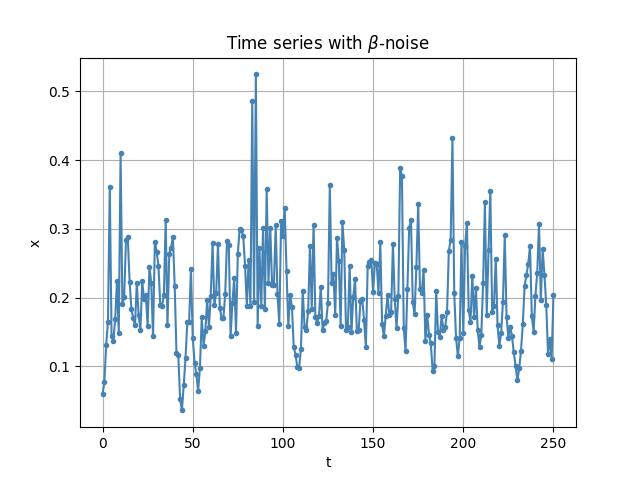
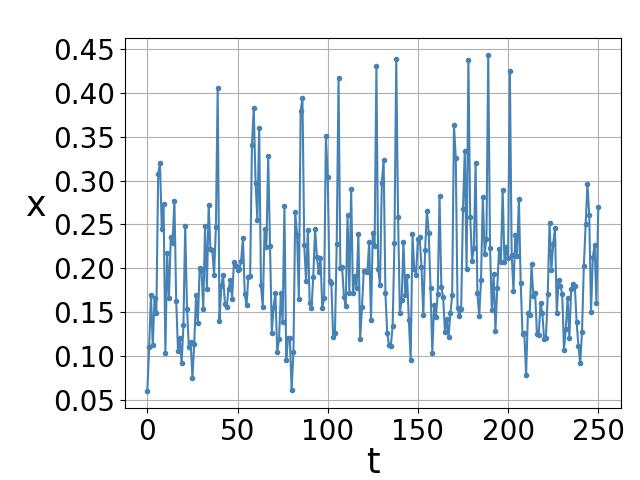
Fix

Changed region(s): [[0.0312, 0.0625, 1.0, 1.0], [0.8438, 0.2812, 0.9375, 0.3438], [0.0312, 0.5, 0.0625, 0.5312]]

diff --git a/latex/stochastic/texfiles/time_series.tex b/latex/stochastic/texfiles/time_series.tex
@@ -38,26 +38,41 @@
 
     Все варианты рассматриваются с одной и той же интенсивностью шума \(\varepsilon = 0.004\). 
         
-    Вид шума влияет на величину разброса значений численности популяции. Для того чтобы сравнить величину разброса можно обратить внимание на график дисперсии \ref{variance_cyclic}. И если в модели (\ref{origin}) численность популяции стабилизировалась и переставала хоть сколько-нибудь меняться, то в моделях (\ref{alpha_chaos}), (\ref{beta_chaos}) и (\ref{additive_chaos}) численность постоянно колеблется. Эти колебания происходят в рамках некоторого интервала значений. Численность популяции не растет и не уменьшается на какую-то значительную величину. Но такое поведение наблюдается не всегда.
+    Вид шума влияет на величину разброса значений численности популяции. Для того чтобы сравнить величину разброса можно обратить внимание на график дисперсии рисунок \ref{variance_cyclic}. И если в модели (\ref{origin}) численность популяции стабилизировалась и переставала хоть сколько-нибудь меняться, то в моделях (\ref{alpha_chaos}), (\ref{beta_chaos}) и (\ref{additive_chaos}) численность постоянно колеблется. Эти колебания происходят в рамках некоторого интервала значений. Численность популяции не растет и не уменьшается на какую-то значительную величину. Но такое поведение наблюдается не всегда.
 
-    Для демонстрации другого возможного поведения увеличим интенсивность шума до \(\varepsilon = 0.04\). На графике \ref{time_series_x_0_06_a_1_b_0_56_beta_chaos_epsilon_0_04_fall} видна ситуация, когда в одном эксперименте из-за шума траектория модели ушла в ноль. В другом эксперименте с точно такими же вводными параметрами получаем ситуацию, когда траектория не ушла в ноль, т.е. популяция выживала на протяжении анализируемого интервала времени. Данный пример изображен на картинке \ref{time_series_x_0_06_a_1_b_0_56_beta_chaos_epsilon_0_04_alive}. Аналогичные эффекты наблюдаются при других видах шума.
-
-    \begin{figure}
-        \centering
-        \includegraphics[width=\textwidth]{stochastic/images/time_series_x_0_06_a_1_b_0_56_beta_chaos_epsilon_0_04_fall.jpg}
-        
-        \captionsetup{justification=centering}
-        \caption{Временной ряд модели (\ref{beta_chaos}) при \(\beta = 0.56, \alpha = 1, x_0 = 0.06, \varepsilon = 0.04\)}
-        \label{time_series_x_0_06_a_1_b_0_56_beta_chaos_epsilon_0_04_fall}
-    \end{figure}
+    Для демонстрации другого возможного поведения интенсивность шума была увеличина до \(\varepsilon = 0.04\). На графике \ref{time_series_x_0_06_a_1_b_0_56_beta_chaos_epsilon_0_04_fall} видна ситуация, когда в одном эксперименте из-за шума траектория модели ушла в ноль. В другом эксперименте с точно такими же вводными параметрами траектория не ушла в ноль, т.е. популяция выживала на протяжении анализируемого интервала времени. Данный пример изображен на картинке \ref{time_series_x_0_06_a_1_b_0_56_beta_chaos_epsilon_0_04_alive}. Аналогичные эффекты наблюдаются при других видах шума.
 
     \begin{figure}
         \centering
-        \includegraphics[width=\textwidth]{stochastic/images/time_series_x_0_06_a_1_b_0_56_beta_chaos_epsilon_0_04_alive.jpg}
+        \subfloat[Вымирание]{
+            \includegraphics[width=0.5\textwidth]{stochastic/images/time_series_x_0_06_a_1_b_0_56_beta_chaos_epsilon_0_04_fall.jpg}
+            \label{time_series_x_0_06_a_1_b_0_56_beta_chaos_epsilon_0_04_fall}
+        }
+        \subfloat[Выживание]{
+            \includegraphics[width=0.5\textwidth]{stochastic/images/time_series_x_0_06_a_1_b_0_56_beta_chaos_epsilon_0_04_alive.jpg}
+            \label{time_series_x_0_06_a_1_b_0_56_beta_chaos_epsilon_0_04_alive}
+        }  
         
-        \captionsetup{justification=centering}
-        \caption{Временной ряд модели (\ref{beta_chaos}) при \(\beta = 0.56, \alpha = 1, x_0 = 0.06, \varepsilon = 0.04\)}
-        \label{time_series_x_0_06_a_1_b_0_56_beta_chaos_epsilon_0_04_alive}
+        \caption{Временные ряды модели (\ref{beta_chaos}) при \(\beta = 0.56, \alpha = 1, x_0 = 0.06, \varepsilon = 0.04\)}
     \end{figure}
 
-    При добавлении в модель случайных событий ее поведение становится непредсказуемым. Одно незначительное изменение может кардинально повлиять на ход развития событий.
+
+    % \begin{figure}
+    %     \centering
+    %     \includegraphics[width=\textwidth]{stochastic/images/time_series_x_0_06_a_1_b_0_56_beta_chaos_epsilon_0_04_fall.jpg}
+        
+    %     \captionsetup{justification=centering}
+    %     \caption{Временной ряд модели (\ref{beta_chaos}) при \(\beta = 0.56, \alpha = 1, x_0 = 0.06, \varepsilon = 0.04\)}
+    %     \label{time_series_x_0_06_a_1_b_0_56_beta_chaos_epsilon_0_04_fall}
+    % \end{figure}
+
+    % \begin{figure}
+    %     \centering
+    %     \includegraphics[width=\textwidth]{stochastic/images/time_series_x_0_06_a_1_b_0_56_beta_chaos_epsilon_0_04_alive.jpg}
+        
+    %     \captionsetup{justification=centering}
+    %     \caption{Временной ряд модели (\ref{beta_chaos}) при \(\beta = 0.56, \alpha = 1, x_0 = 0.06, \varepsilon = 0.04\)}
+    %     \label{time_series_x_0_06_a_1_b_0_56_beta_chaos_epsilon_0_04_alive}
+    % \end{figure}
+
+    При добавлении в модель случайных событий ее поведение становится непредсказуемым. Случайные траектории, под действием шума определенной интенсивности покидают бассейн притяжения детерминированного аттрактора и переходят на вырожденное равновесие \((0; 0)\). То есть наблюдается индуцированное шумом вымирание популяции. 

diff --git a/latex/stochastic/texfiles/bifurcation.tex b/latex/stochastic/texfiles/bifurcation.tex
@@ -1,6 +1,8 @@
-\subsection{Бифуркационные диаграммы}
+\subsection{Стохастические диаграммы}
 
-    Перейдем к рассмотрению графиков бифуркации моделей с разными видами шумов. На рисунках \ref{bifurcation_x_0_2_a_1_compare_alpha_noise}, \ref{bifurcation_x_0_2_a_1_compare_beta_noise} и \ref{bifurcation_x_0_2_a_1_compare_additional_noise} представлены графики бифуркационных диаграмм для моделей \ref{alpha_chaos}, \ref{beta_chaos} и \ref{additive_chaos}. Во всех моделях зафиксировано значение параметра \(\beta = 1\). Графики внешне напоминают детерминированный случай \ref{bifurcation_x_0_2_a_1_compare_no_noise}. На каждом графике, так же как и в исходной модели, существует участок равновесия, участки с циклами и участок с хаотическим поведением системы. От вида и интенсивности шума зависит то, насколько сильно отличается график с шумом от графика исходной модели \ref{origin}. 
+    Далее представлено случайное возмущение на бифуркационной диаграмме с разными видами шумов. На рисунках \ref{bifurcation_x_0_2_a_1_compare_alpha_noise}, \ref{bifurcation_x_0_2_a_1_compare_beta_noise} и \ref{bifurcation_x_0_2_a_1_compare_additional_noise} представлены графики бифуркационных диаграмм для моделей (\ref{alpha_chaos}), (\ref{beta_chaos}) и (\ref{additive_chaos}). Во всех моделях зафиксировано значение параметра \(\alpha = 1\). На каждом графике, так же как и в исходной модели, существует участок равновесия, участки с циклами и участок с хаотическим поведением системы. От вида и интенсивности шума зависит то, насколько \comment{А вот тут я не понял правку}.
+
+    Видно, что \(\alpha\)-шум 
 
     Можно заметить, что самое сильное влияние на значения оказывает \(\beta\)-шум. А, например, \(\alpha\)-шум оказывает незначительное влияние и диаграмма очень похожа на диаграмму детерминированного случая. Данные выводы также подтверждаются результатами, которые мы получили при построении временных рядов.
 

diff --git a/grpah/runner.py b/grpah/runner.py
@@ -209,6 +209,33 @@ def run_time_series_beta_noise():
         .show_last())
 
 
+def run_time_series_beta_noise_can_drop():
+    time_range = range(1, 250 + 1)
+    x_start = 0.06
+    skip = False
+
+    a = 1
+    b = 0.56
+    epsilon = 0.04
+
+    source = time_series(
+        time_range=time_range,
+        x_start=x_start,
+        f=lambda x: functions_b_noise.f(a, b, x, epsilon),
+        skip=skip
+    )
+    (Plotter()
+        .adjust(top=0.92, bottom=0.15, left=0.195, right=0.97)
+        .setup_x_label('t', font_size=25, label_pad=0)
+        .setup_x_ticks(font_size=20)
+        .setup_y_label('x', font_size=25, label_pad=12)
+        .setup_y_ticks(font_size=20)
+        .setup_grid(grid.major)
+        # .setup_title('Time series $\beta$-noise')
+        .plot(source[0], source[1], '.', colors.steel_blue)
+        .show_last())
+
+
 def run_time_series_alpha_noise():
     time_range = range(1, 250 + 1)
     x_start = 0.06

diff --git a/grpah/main.py b/grpah/main.py
@@ -17,6 +17,8 @@ if __name__ == "__main__":
     # run_time_series_compare_noise()
     # run_time_series_without_chaos_composition()
 
+    # run_time_series_beta_noise_can_drop()
+
     # Показать график бифуркации
     # run_bifurcation()
 
@@ -77,6 +79,6 @@ if __name__ == "__main__":
     # run_machalanobis_alpha_noise()
     # run_machalanobis_additive_noise()
 
-    critical_intensity_beta_noise()
+    # critical_intensity_beta_noise()
     # critical_intensity_alpha_noise()
     # critical_intensity_additive_noise()
